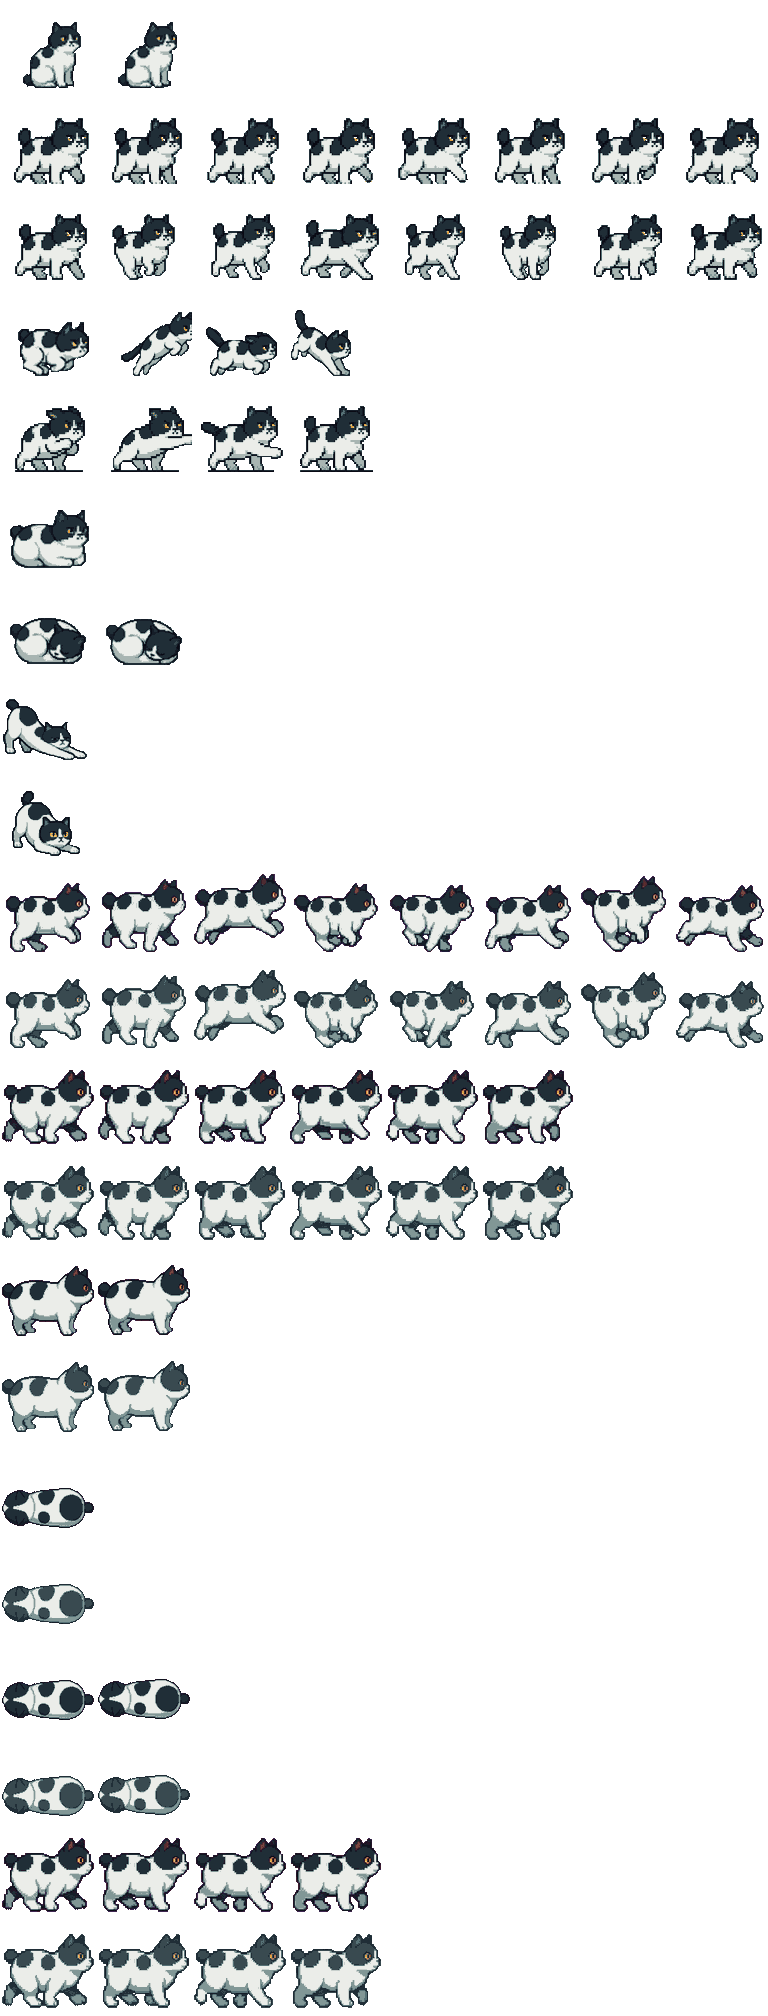
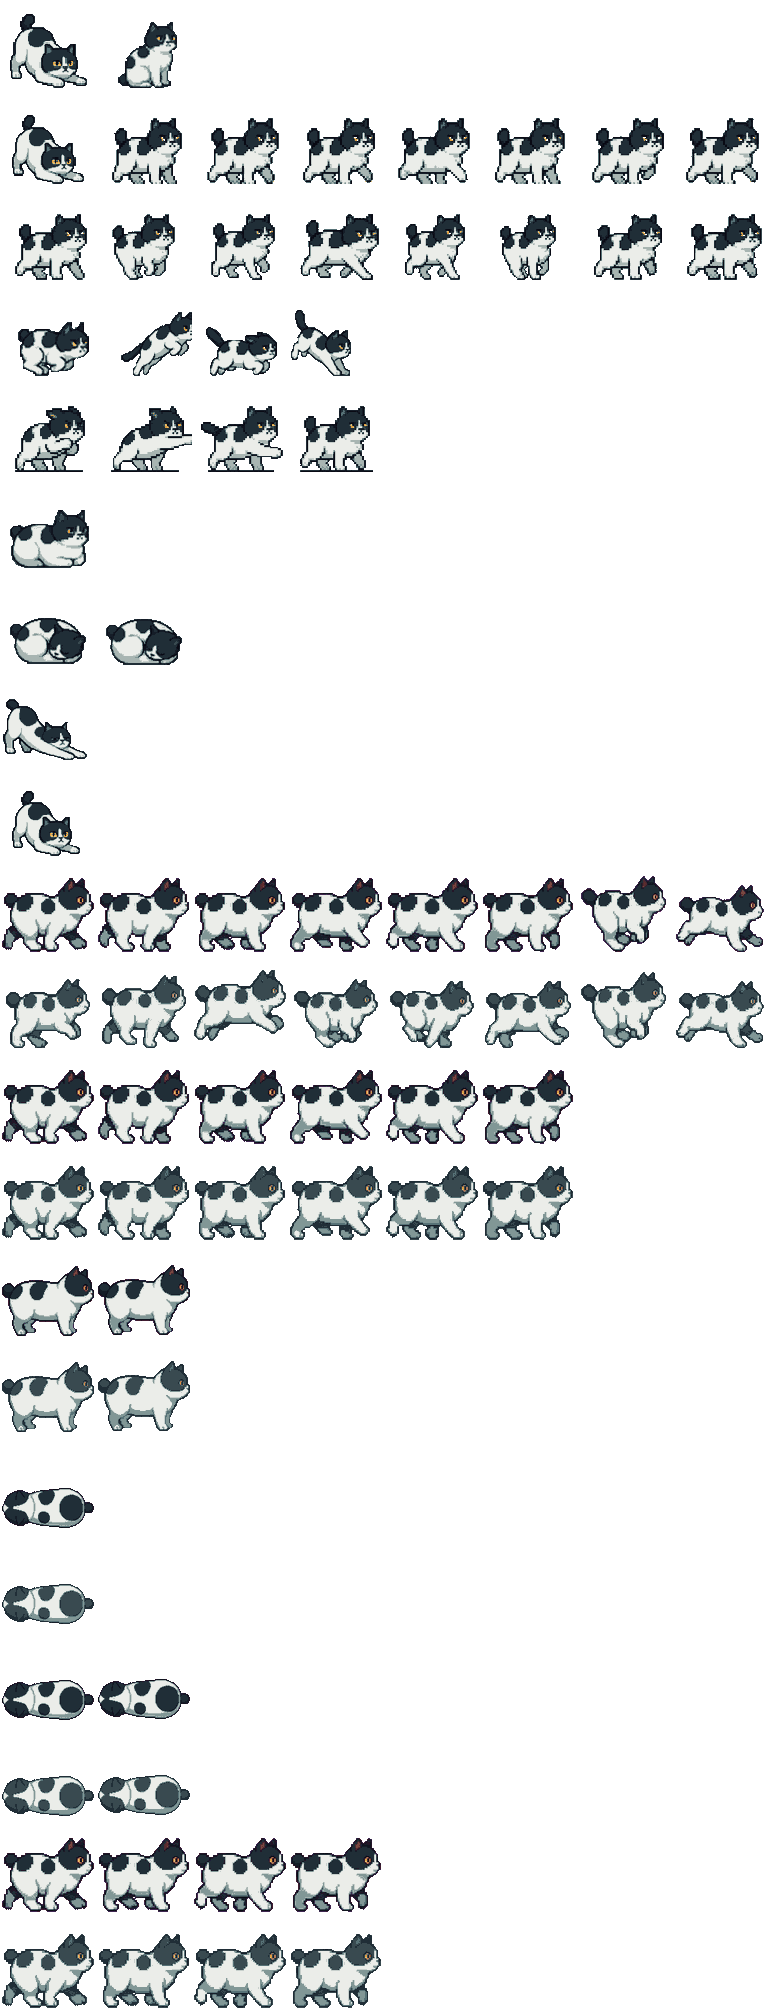
art: supplied run strip becomes the walk cycle; charge pose re-grounded
- walk was built from a strip whose frames drift 132-150px tall, so the cat
  grew and shrank every step. The supplied run strip is even (all six frames
  146px on one baseline); it is now the walk animation: 6 frames, 74px each.
- the charge hold pose was 65px against 67-76 for walk AND stamped foot:0,
  which drew it 7px above the ground. Rebuilt into its own free cell, scaled
  to the walk median and given foot:7 - it now matches walk exactly (74/88).
- tools/atlas_patch.py reproduces both; ART_V bumped to gemini2.

Changed region(s): [[0.0, 0.4375, 0.75, 0.4688], [0.0, 0.0, 0.125, 0.0938]]

diff --git a/game.js b/game.js
@@ -6,7 +6,7 @@
 const W = 960, H = 540, TILE = 32;
 const GRAV = 2200, JUMP_V = -690, MOVE = 272, ACCEL = 2600, FRIC = 2400, MAXFALL = 980;
 const COYOTE = 0.09, JUMP_BUF = 0.12;
-const ART_V = "gemini1";        // bump when assets/cat-atlas.* changes
+const ART_V = "gemini2";        // bump when assets/cat-atlas.* changes
 
 /* meadow palette taken from the reference mockup */
 /* One palette block. Every draw call reads from here — no colour literals below.

diff --git a/tools/atlas_patch.py b/tools/atlas_patch.py
@@ -1,0 +1,134 @@
+#!/usr/bin/env python3
+"""Patch assets/cat-atlas.{png,json} from a supplied strip.
+
+Two fixes, both driven by measurement rather than eyeballing:
+
+1. WALK <- the supplied run strip (out/gemini/run-strip.png).
+   The old walk row came from a strip whose frames drift 132-150 px tall
+   (the cat bobs and changes size frame to frame). The run strip is even:
+   every frame is 146 px tall on the same baseline. Using it as the walk
+   animation gives a steady silhouette and a real 6-frame cycle.
+
+2. CHARGE -> grounded and rescaled.
+   The generated hold pose is 65 px tall against 67-76 for walk, and its
+   cell was stamped foot:0 instead of foot:7, which draws it 7 px above the
+   ground. It is moved to its own cell, scaled to the walk median height and
+   given foot:7.
+
+Run:  python3 tools/atlas_patch.py
+Then bump ART_V in game.js so browsers refetch the atlas.
+"""
+import json
+import os
+import statistics
+from PIL import Image
+
+ROOT = os.path.dirname(os.path.dirname(os.path.abspath(__file__)))
+ATLAS_PNG = os.path.join(ROOT, "assets/cat-atlas.png")
+ATLAS_JSON = os.path.join(ROOT, "assets/cat-atlas.json")
+RUN_STRIP = os.path.join(ROOT, "out/gemini/run-strip.png")
+
+CELL = 96
+FOOT = 7
+# free rows in the sheet (nothing references them)
+FREE_ROW_BLACK = 0
+FREE_ROW_GREY = 96
+
+
+def content_bbox(img):
+    bb = img.getbbox()
+    return bb  # (x0, y0, x1, y1)
+
+
+def cell_of(img, c):
+    return img.crop((c["x"], c["y"], c["x"] + c["w"], c["y"] + c["h"]))
+
+
+def strip_frames(path, cols):
+    im = Image.open(path).convert("RGB")
+    w, h = im.size
+    cw = w // cols
+    out = []
+    for i in range(cols):
+        cell = im.crop((i * cw, 0, (i + 1) * cw, h))
+        out.append(cell)
+    return out
+
+
+def to_cell(frame, bg=None):
+    """Downscale a strip frame to a 96x96 cell, keying out the cream background."""
+    if bg is None:
+        bg = frame.getpixel((3, 3))
+    frame = frame.convert("RGBA")
+    px = frame.load()
+    for y in range(frame.height):
+        for x in range(frame.width):
+            r, g, b, a = px[x, y]
+            if abs(r - bg[0]) + abs(g - bg[1]) + abs(b - bg[2]) < 42:
+                px[x, y] = (0, 0, 0, 0)
+    # nearest-neighbour shrink to the cell, keeping the baseline
+    small = frame.resize((CELL, CELL), Image.NEAREST)
+    return small
+
+
+def baseline_normalise(cell):
+    """Return the cell unchanged; the strips already share one baseline."""
+    return cell
+
+
+def main():
+    atlas = Image.open(ATLAS_PNG).convert("RGBA")
+    data = json.load(open(ATLAS_JSON))
+
+    # ---------------------------------------------------------------- walk
+    frames = strip_frames(RUN_STRIP, 6)
+    black_walk = data["black"]["walk"]
+    row_y = black_walk[0]["y"]
+    heights = []
+    for i, fr in enumerate(frames):
+        cell = to_cell(fr)
+        bb = cell.getbbox()
+        if bb:
+            heights.append(bb[3] - bb[1])
+        x = i * CELL
+        atlas.paste((0, 0, 0, 0), (x, row_y, x + CELL, row_y + CELL))
+        atlas.alpha_composite(cell, (x, row_y))
+    data["black"]["walk"] = [
+        {"x": i * CELL, "y": row_y, "w": CELL, "h": CELL, "foot": FOOT}
+        for i in range(len(frames))
+    ]
+
+    # -------------------------------------------------------------- charge
+    for set_name, row in (("black", FREE_ROW_BLACK), ("grey", FREE_ROW_GREY)):
+        old = data[set_name]["charge"][0]
+        cell = cell_of(atlas, old)
+        bb = content_bbox(cell)
+        if not bb:
+            continue
+        x0, y0, x1, y1 = bb
+        art = cell.crop(bb)
+        art_h = y1 - y0
+        # target: the median height of this set's own walk cycle
+        walk_h = [content_bbox(cell_of(atlas, c))[3] - content_bbox(cell_of(atlas, c))[1]
+                  for c in data[set_name]["walk"]]
+        target = int(statistics.median(walk_h))
+        k = target / art_h if art_h else 1
+        if abs(k - 1) > 0.02:
+            art = art.resize((max(1, round(art.width * k)), target), Image.NEAREST)
+        new = Image.new("RGBA", (CELL, CELL), (0, 0, 0, 0))
+        # keep the feet on the shared baseline (row 88) and the body centred
+        bottom = 88
+        cx = CELL // 2
+        new.alpha_composite(art, (cx - art.width // 2, bottom - art.height))
+        atlas.paste((0, 0, 0, 0), (0, row, CELL, row + CELL))
+        atlas.alpha_composite(new, (0, row))
+        data[set_name]["charge"] = [{"x": 0, "y": row, "w": CELL, "h": CELL, "foot": FOOT}]
+
+    atlas.save(ATLAS_PNG)
+    json.dump(data, open(ATLAS_JSON, "w"), indent=1)
+    print("walk frames:", len(data["black"]["walk"]), "heights:", heights)
+    print("charge ->", data["black"]["charge"][0], data["grey"]["charge"][0])
+
+
+if __name__ == "__main__":
+    main()
